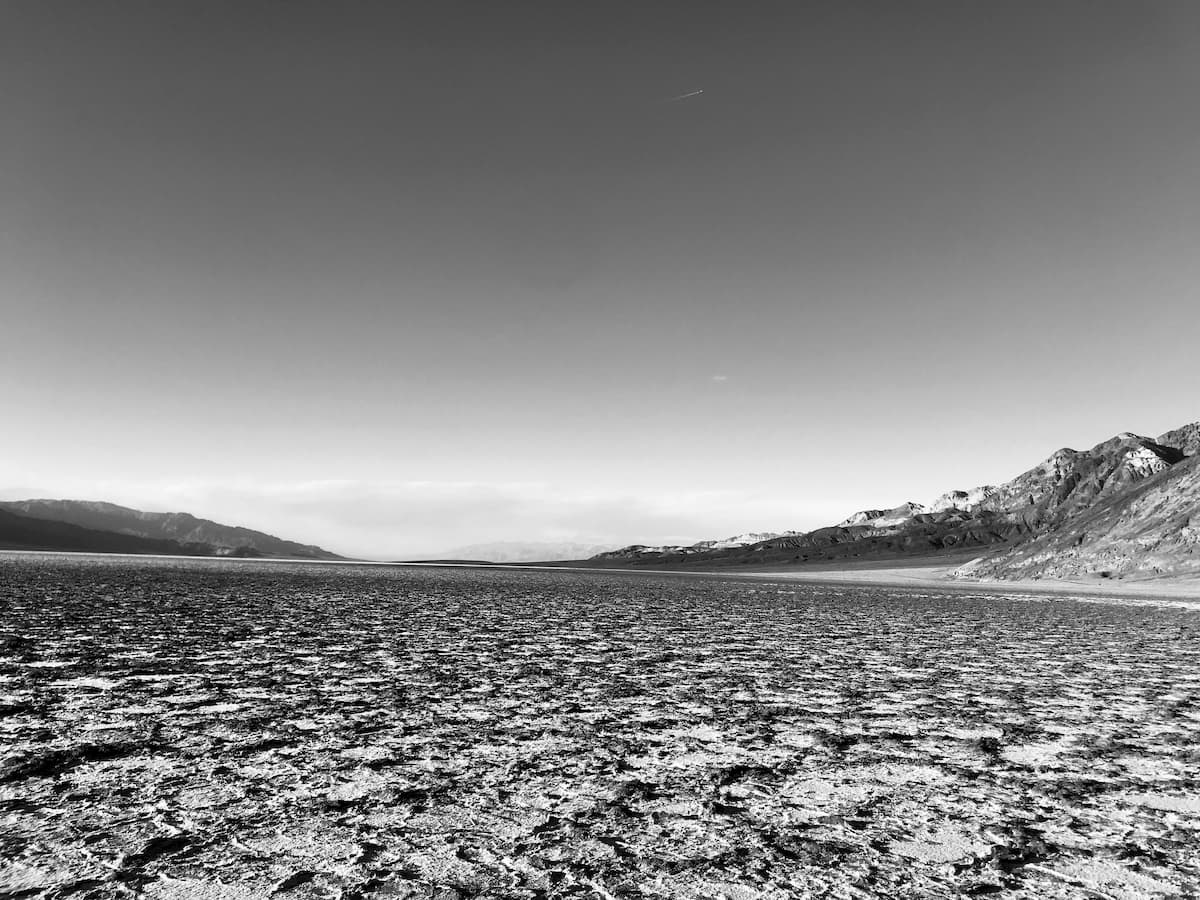
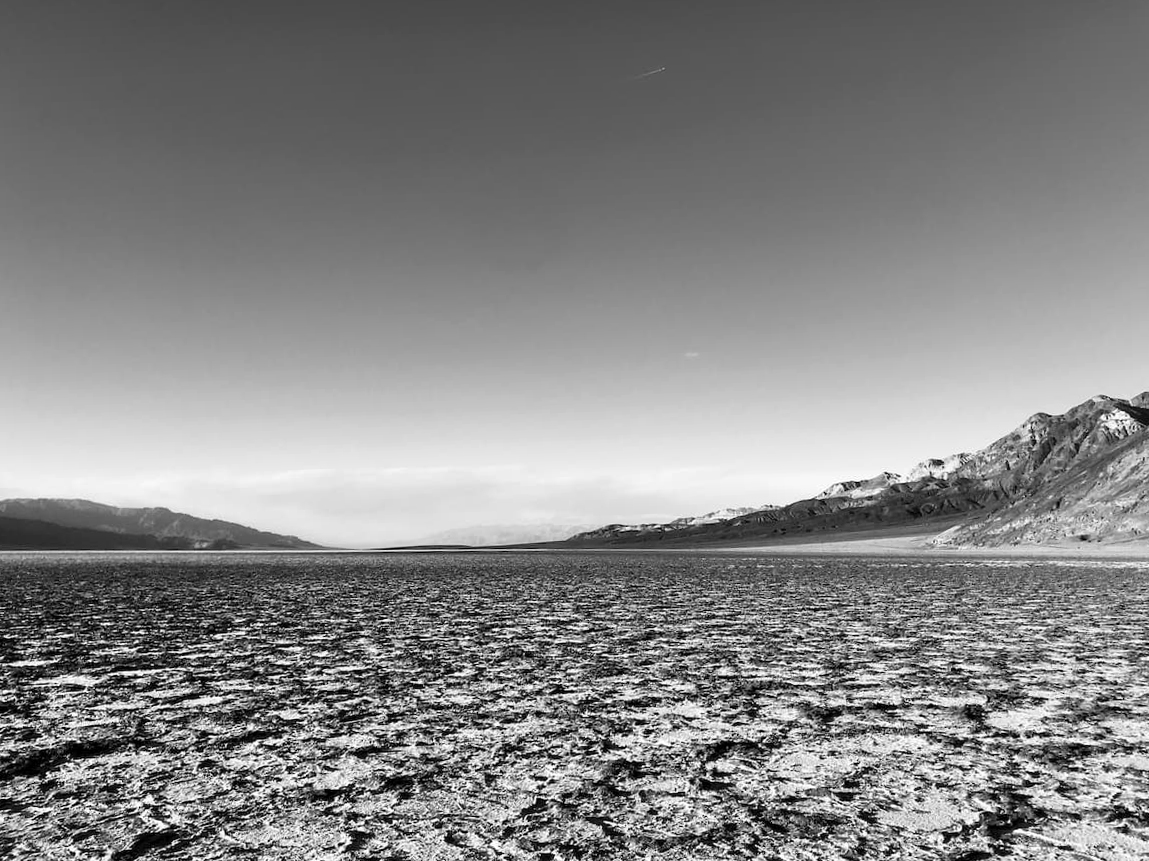
a

diff --git a/index.html b/index.html
@@ -667,8 +667,8 @@
                        <figure class="small">
                           <amp-img alt="Death Valley"
                             src="img/DeathValley1.jpg"
-                            width="1200"
-                            height="900"
+                            width="1149"
+                            height="861"
                             layout="responsive">
                           </amp-img>
                           <figcaption>Death Valley: The flatest, lowest place</figcaption>
